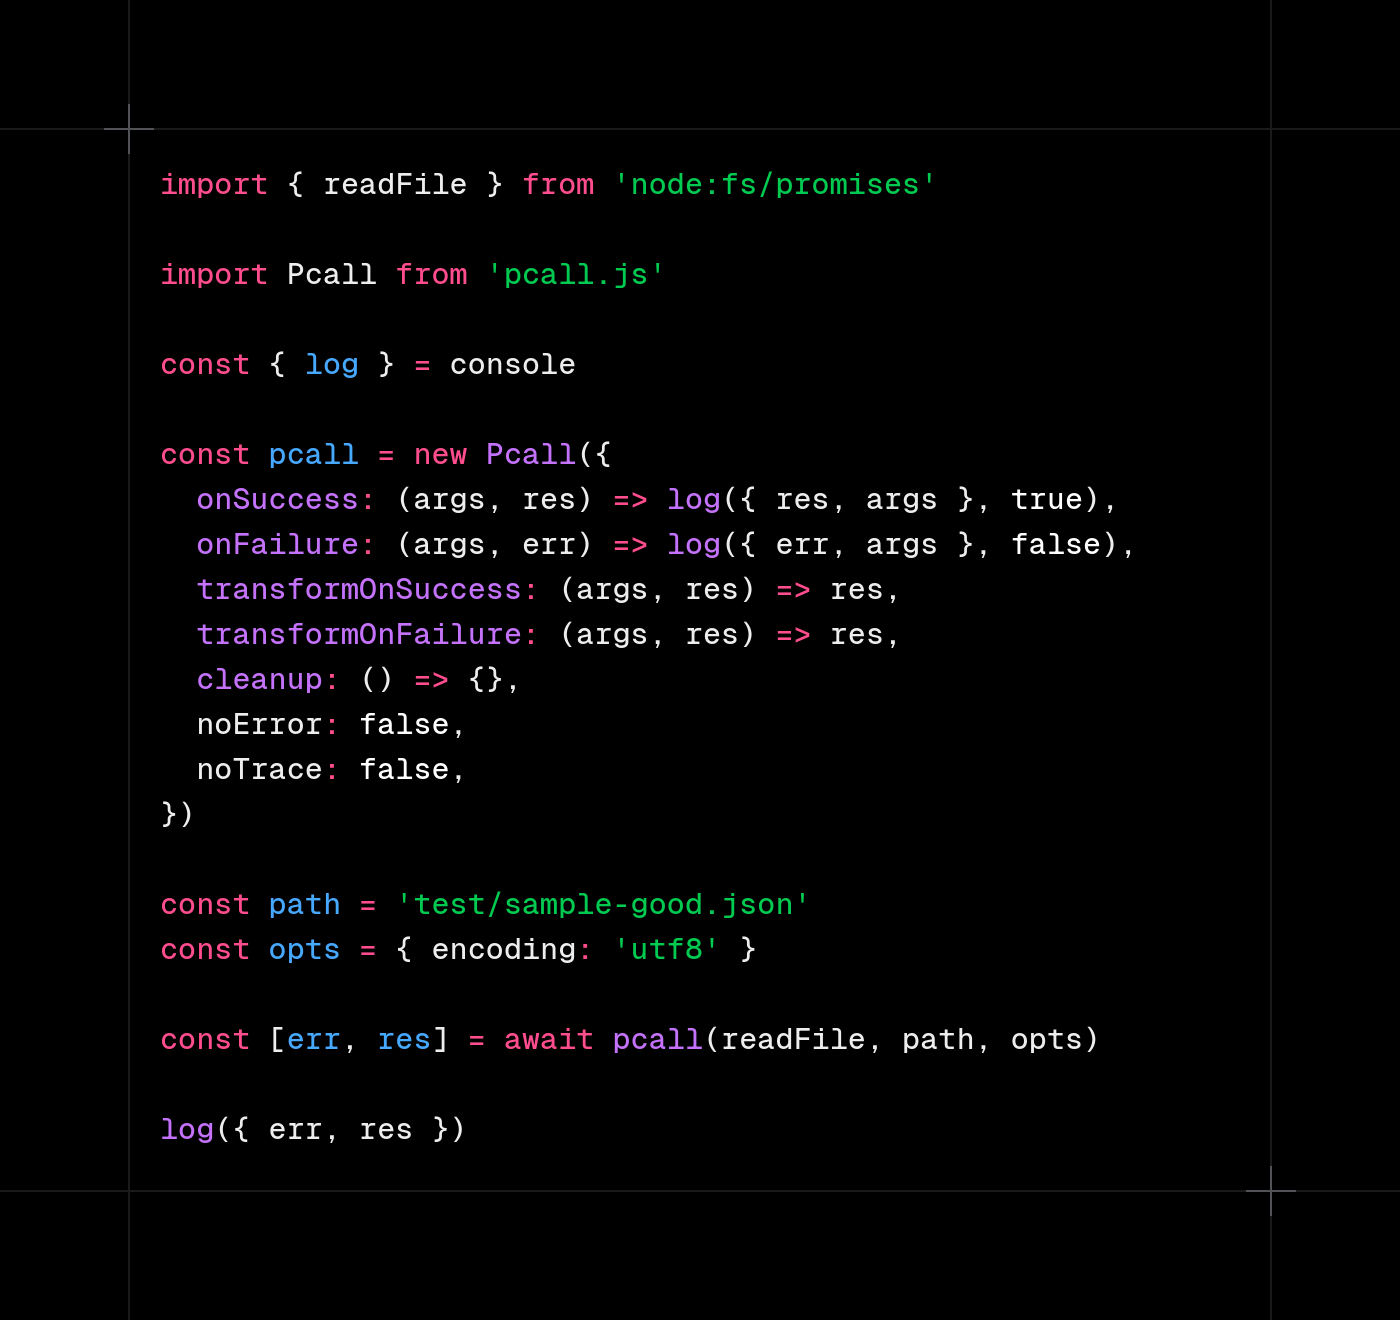
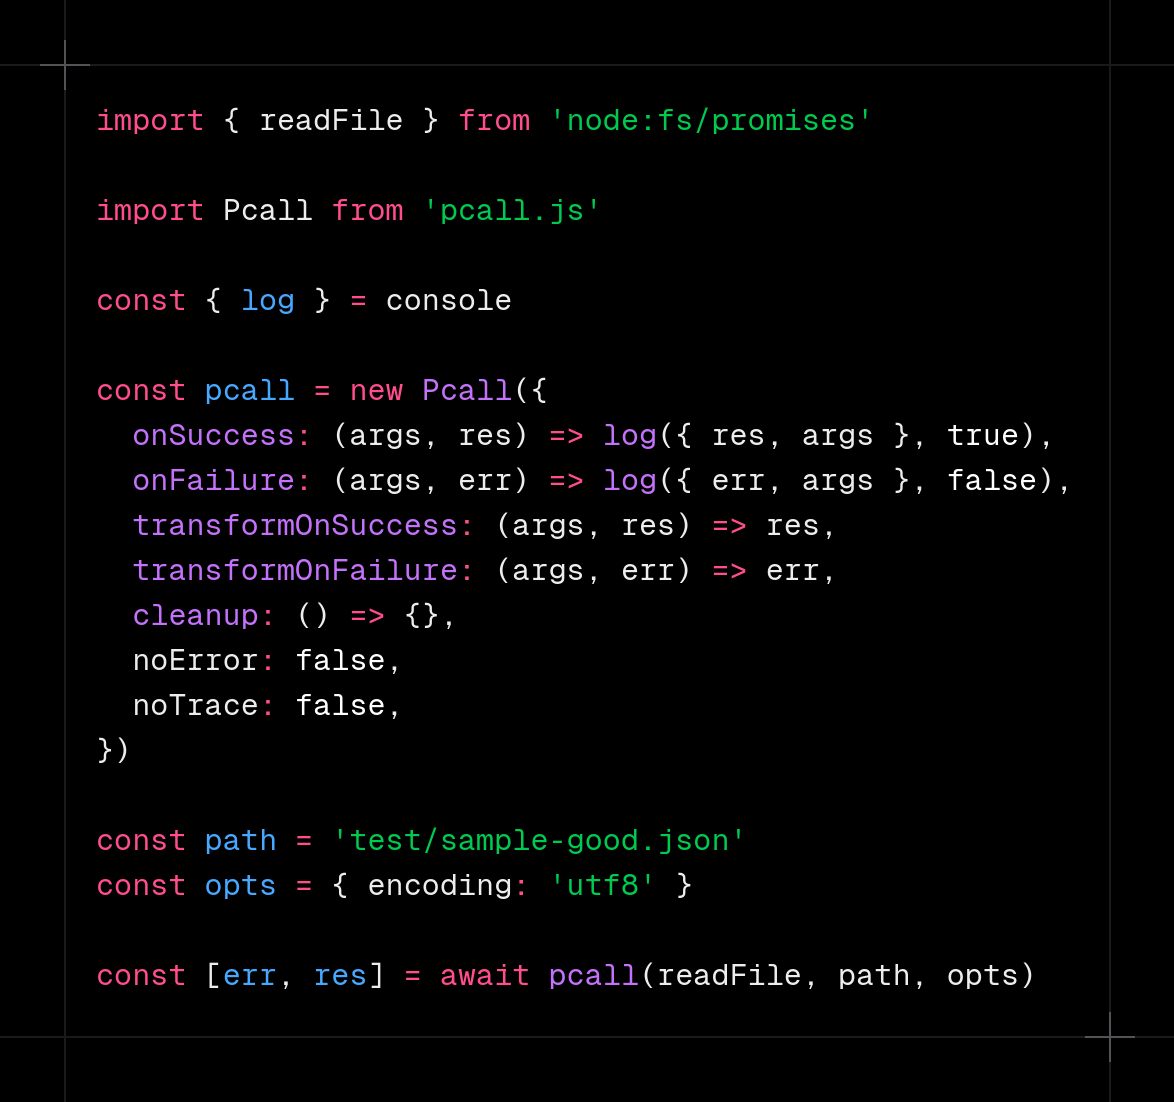
rc

diff --git a/.github/assets/use-default.js b/.github/assets/use-default.js
@@ -8,7 +8,7 @@ const pcall = new Pcall({
   onSuccess: (args, res) => log({ res, args }, true),
   onFailure: (args, err) => log({ err, args }, false),
   transformOnSuccess: (args, res) => res,
-  transformOnFailure: (args, res) => res,
+  transformOnFailure: (args, err) => err,
   cleanup: () => {},
   noError: false,
   noTrace: false,

diff --git a/.github/assets/use-options.js b/.github/assets/use-options.js
@@ -7,7 +7,7 @@ const readJson = new Pcall({
   noError: true,
   args: [{ encoding: 'utf8' }],
   transformOnSuccess: (args, res) => JSON.parse(res),
-  transformOnFailure: (args, { name, message }) => ({ name, message }),
+  transformOnFailure: (args, err) => err.message,
 })
 
 const path = 'test/sample-good.json'
